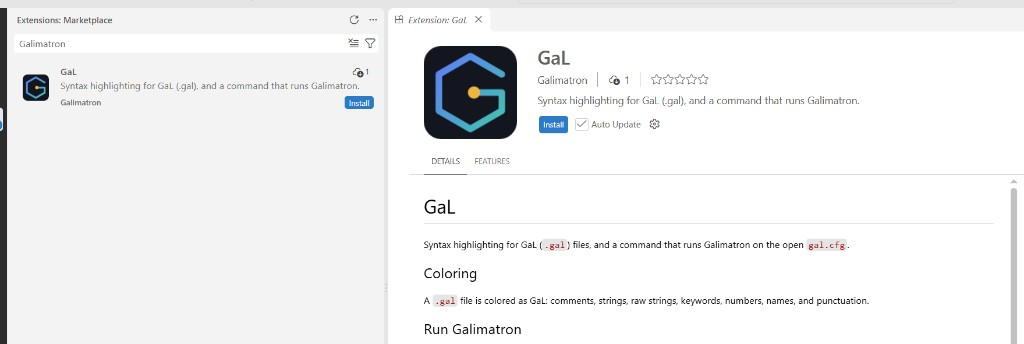
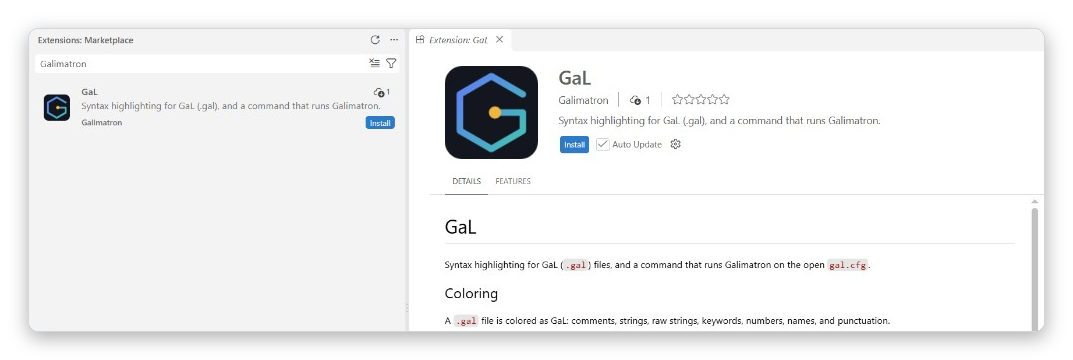
up

Changed region(s): [[0.0, 0.0, 1.0, 1.0], [0.4062, 0.6977, 0.8438, 0.7558], [0.4062, 0.5814, 0.4375, 0.6686]]

diff --git a/tools/polish_screenshot.py b/tools/polish_screenshot.py
@@ -1,0 +1,35 @@
+"""Crops a VS Code screenshot, rounds the corners, and adds a thin border and a soft shadow on a transparent margin.
+
+usage: python polish_screenshot.py <raw.png> <out.png> [left top right bottom]
+"""
+import sys
+
+from PIL import Image, ImageDraw, ImageFilter
+
+src, dst = sys.argv[1], sys.argv[2]
+box = tuple(int(v) for v in sys.argv[3:7]) if len(sys.argv) >= 7 else None
+
+im = Image.open(src).convert("RGBA")
+if box:
+    im = im.crop(box)
+w, h = im.size
+
+radius, margin = 10, 28
+canvas = Image.new("RGBA", (w + 2 * margin, h + 2 * margin), (0, 0, 0, 0))
+
+# soft shadow
+shadow = Image.new("RGBA", canvas.size, (0, 0, 0, 0))
+ImageDraw.Draw(shadow).rounded_rectangle((margin, margin + 5, margin + w, margin + h + 5), radius, fill=(0, 0, 0, 80))
+shadow = shadow.filter(ImageFilter.GaussianBlur(9))
+canvas = Image.alpha_composite(canvas, shadow)
+
+# the picture with rounded corners
+mask = Image.new("L", (w, h), 0)
+ImageDraw.Draw(mask).rounded_rectangle((0, 0, w - 1, h - 1), radius, fill=255)
+canvas.paste(im, (margin, margin), mask)
+
+# a thin border
+ImageDraw.Draw(canvas).rounded_rectangle((margin, margin, margin + w - 1, margin + h - 1), radius, outline=(208, 215, 222, 255), width=1)
+
+canvas.save(dst)
+print(dst, canvas.size)
